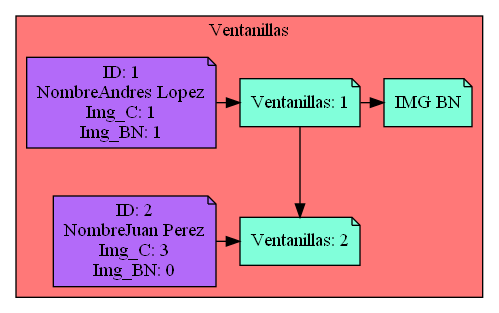
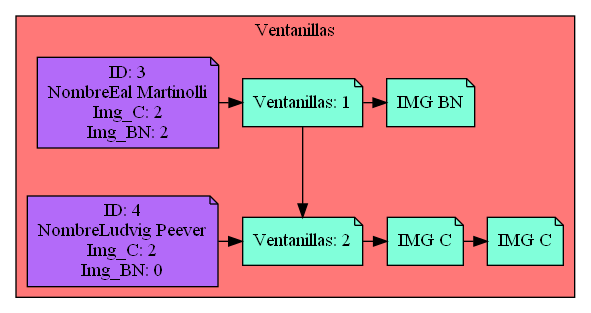
generar img con la funcion del menu

diff --git a/src/functionalities/general.java b/src/functionalities/general.java
@@ -91,15 +91,18 @@ public class general {
 
 				switch (option) {
 				case 1:
-					System.out.println("Ejecutar paso\n");
+					//System.out.println("Ejecutar paso\n");
 					Realizar_Paso();
 					break;
 
 				case 2:
-					System.out.println("Estado de la estructuras ");
-					//Data.Cola_Recepcion.Draw_Graphiz();
+					System.out.println("Estado de la estructuras");
+					Clients_Served.openimg();
+					Waiting_clients.openimg();
 					Data.Simpe_Ventanas.openimg();
 					Data.Cola_Recepcion.openimg();
+					printer_bw.openimg();
+					printer_color.openimg();
 					break;
 
 				case 3:
